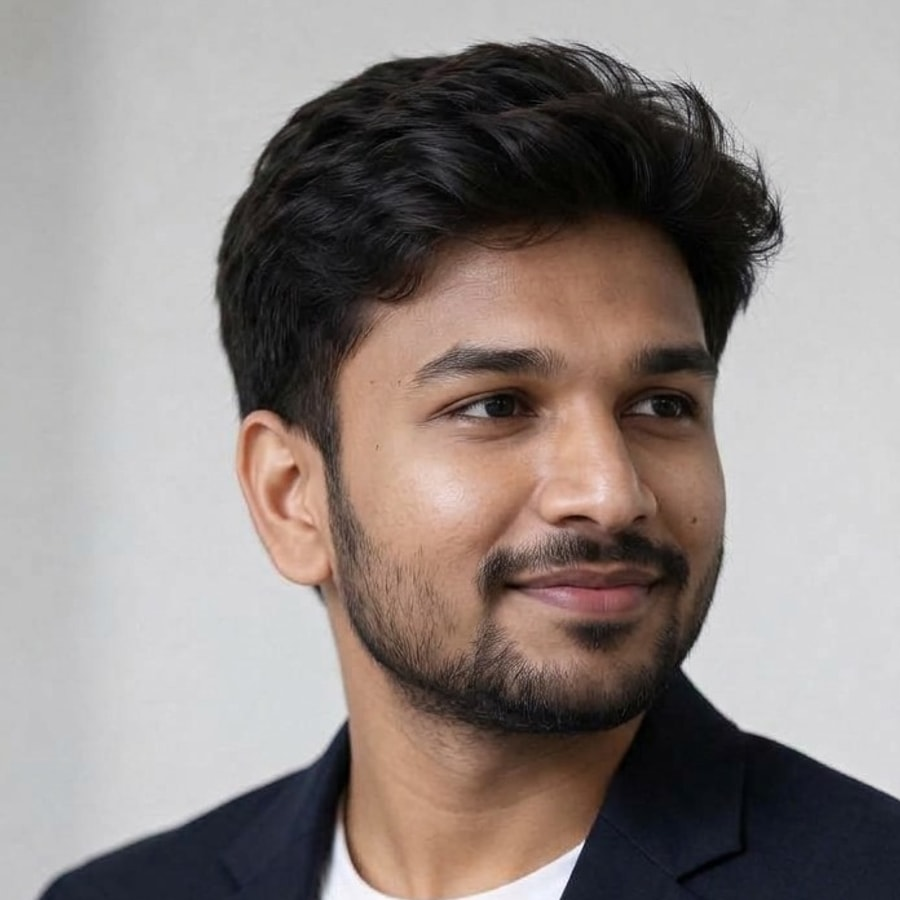
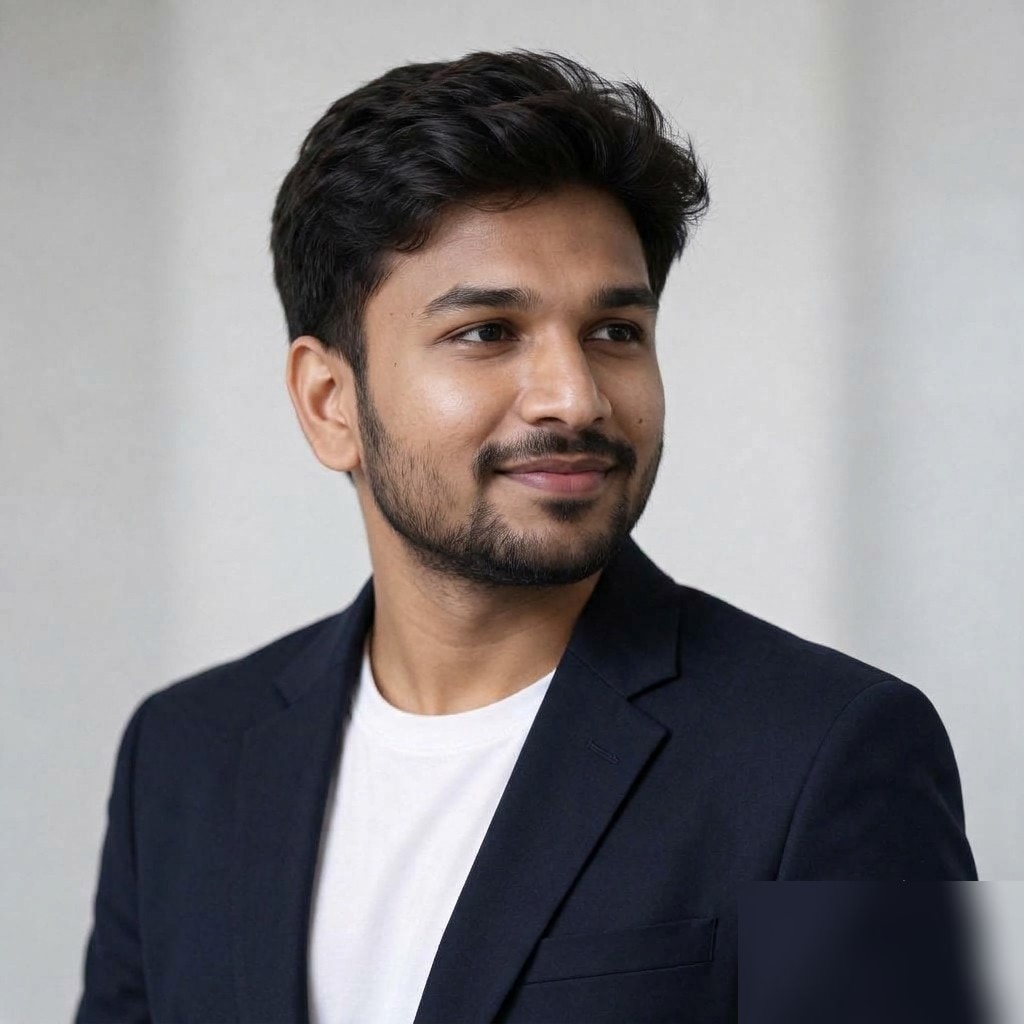
fix: restore full portrait and hide watermark corner
Keep the original framing, cover only the Genspark mark with a soft
patch plus a light CSS corner fade.

diff --git a/src/components/Hero.tsx b/src/components/Hero.tsx
@@ -99,30 +99,31 @@ export function Hero() {
         </div>
 
         <motion.div
-          className="relative mx-auto w-full max-w-sm lg:mx-0 lg:max-w-md lg:justify-self-end"
+          className="relative mx-auto w-full max-w-md lg:mx-0 lg:justify-self-end"
           initial={reduce ? false : { opacity: 0, x: 24 }}
           animate={{ opacity: 1, x: 0 }}
           transition={{ duration: 0.6, delay: 0.15 }}
         >
-          <div className="relative mx-auto w-[min(100%,22rem)] sm:w-[min(100%,24rem)]">
+          <div className="relative ml-2 mt-2 sm:ml-6 sm:mt-6">
             <div
-              className="absolute -inset-2 rounded-full border border-[color-mix(in_oklab,var(--accent)_60%,transparent)] sm:-inset-3"
+              className="absolute -inset-2 rounded-[1.75rem] border border-[color-mix(in_oklab,var(--accent)_55%,transparent)] sm:-inset-4"
               aria-hidden
             />
-            <div
-              className="absolute -inset-5 rounded-full border border-[color-mix(in_oklab,var(--accent)_18%,transparent)] sm:-inset-6"
-              aria-hidden
-            />
-            <div className="overflow-hidden rounded-full border border-[var(--border)] bg-[var(--surface)] shadow-[0_24px_80px_rgb(0_0_0_/0.28)]">
+            <div className="relative overflow-hidden rounded-[1.35rem] border border-[var(--border)] bg-[var(--surface)] shadow-[0_24px_80px_rgb(0_0_0_/0.28)]">
               <img
                 src={profile.photoPath}
                 alt={profile.photoAlt}
-                width={900}
-                height={900}
+                width={640}
+                height={640}
                 loading="eager"
                 decoding="async"
                 fetchPriority="high"
-                className="aspect-square h-auto w-full scale-105 object-cover object-[center_18%]"
+                className="aspect-square h-auto w-full object-cover"
+              />
+              {/* Soft cover for any remaining watermark in the corner */}
+              <div
+                className="pointer-events-none absolute bottom-0 right-0 h-[18%] w-[34%] bg-gradient-to-tl from-[#d8d6d2] via-[#d8d6d2]/85 to-transparent"
+                aria-hidden
               />
             </div>
           </div>
